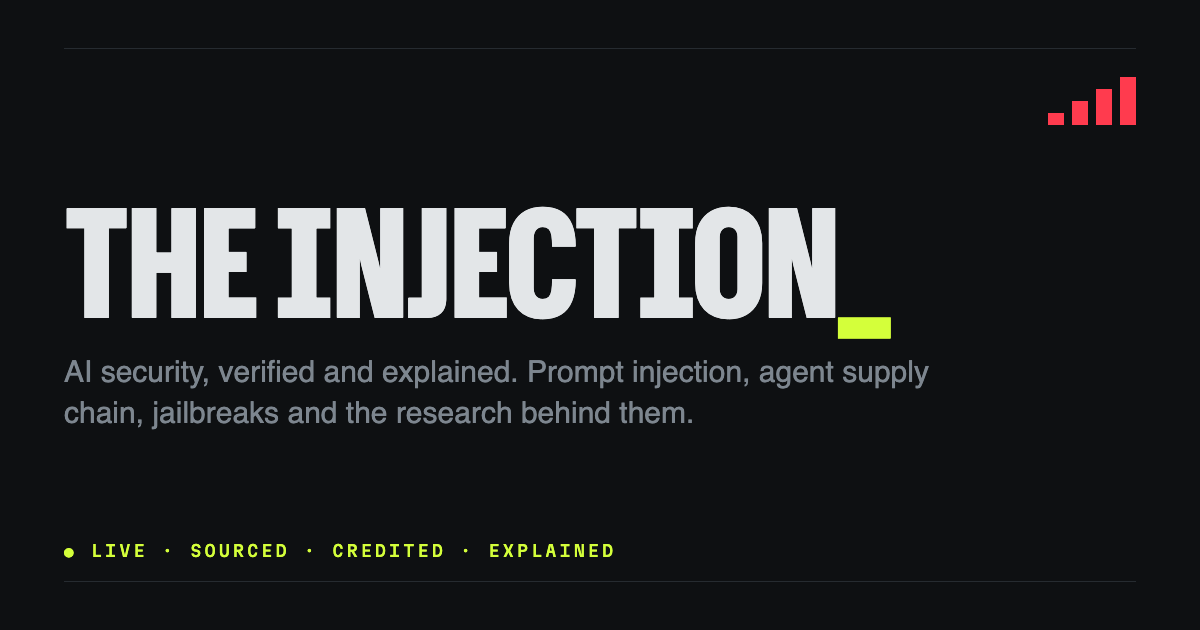
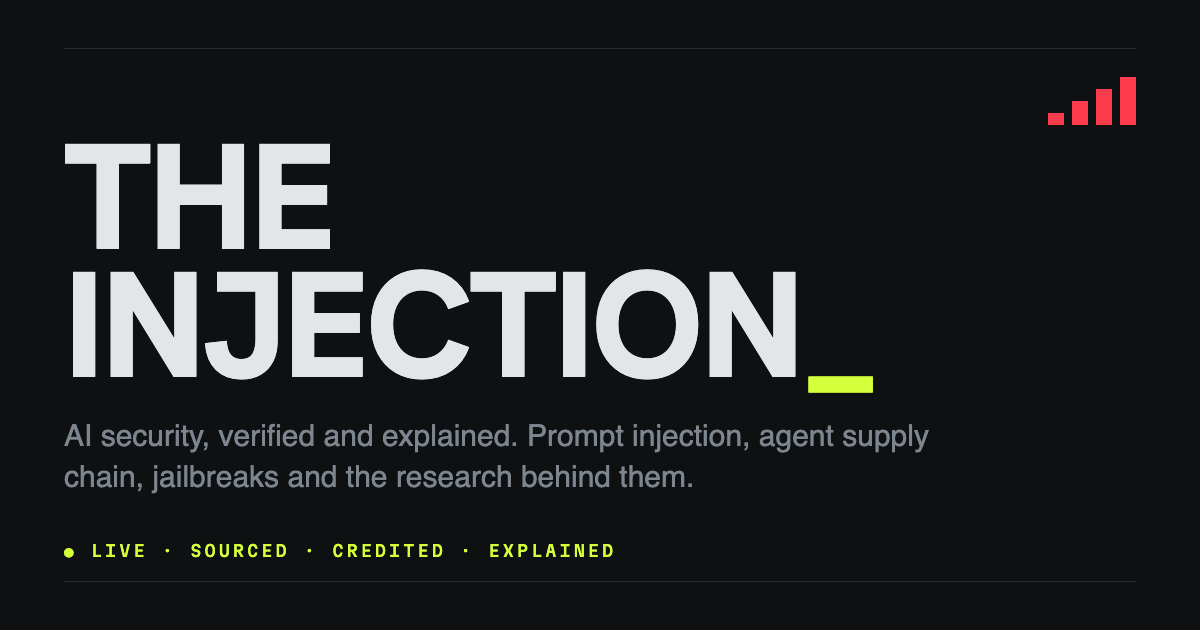
Headlines and body in Hanken Grotesk 600
Replaces Hubot Sans condensed extra-bold, which read as squashed on dark. Headings drop to semibold at normal width with -2% tracking; the wordmark stays heavy. Martian Mono stays for data and labels. Removes the unused font packages from earlier directions; OG image regenerated.

Changed region(s): [[0.0308, 0.2111, 0.7708, 0.7841]]

diff --git a/src/components/FeedExplorer.tsx b/src/components/FeedExplorer.tsx
@@ -51,7 +51,7 @@ function Thumb({ it }: { it: SlimItem }) {
   return (
     <span className="absolute inset-0" style={{ background: art.bg }}>
       <span dangerouslySetInnerHTML={{ __html: art.svg }} />
-      <span className="absolute inset-0 flex items-end p-2 font-heading text-[11px] font-bold leading-[1.05] sm:text-[13px]" style={{ color: art.ink }}>
+      <span className="absolute inset-0 flex items-end p-2 font-heading text-[11px] font-semibold leading-[1.05] sm:text-[13px]" style={{ color: art.ink }}>
         {art.text}
       </span>
     </span>
@@ -167,7 +167,7 @@ export default function FeedExplorer({ items, categories, severities }: Props) {
                     <span className="text-ink/70">{it.org}</span>
                     {it.cve && <span className="hidden sm:inline">{it.cve}</span>}
                   </span>
-                  <span className="mt-1.5 block font-heading text-[17px] font-bold leading-snug text-white [font-stretch:88%] group-hover:underline group-hover:decoration-acid sm:text-[19px]">{it.title}</span>
+                  <span className="mt-1.5 block font-heading text-[17px] font-semibold leading-snug text-white group-hover:underline group-hover:decoration-acid sm:text-[19px]">{it.title}</span>
                   <span className="mt-1 hidden text-[13.5px] leading-relaxed text-muted-foreground sm:line-clamp-1">{it.summary}</span>
                 </span>
                 <time dateTime={it.date} className="hidden self-start pt-0.5 font-mono text-[10.5px] text-muted-foreground sm:block">{it.date}</time>

diff --git a/scripts/og/og.html b/scripts/og/og.html
@@ -1,10 +1,10 @@
 <!doctype html><html><head><meta charset="utf-8"><style>
-@font-face{font-family:HS;font-weight:200 900;font-stretch:75% 125%;src:url(../../node_modules/@fontsource-variable/hubot-sans/files/hubot-sans-latin-wdth-normal.woff2)}
+@font-face{font-family:HS;font-weight:100 900;src:url(../../node_modules/@fontsource-variable/hanken-grotesk/files/hanken-grotesk-latin-wght-normal.woff2)}
 @font-face{font-family:MM;font-weight:100 800;src:url(../../node_modules/@fontsource-variable/martian-mono/files/martian-mono-latin-wdth-normal.woff2)}
 
 html,body{margin:0;width:1200px;height:630px;background:#0E1012;color:#E3E6E8;font-family:HS,Helvetica,sans-serif}
 .wrap{position:absolute;inset:48px 64px;border-top:1px solid #262B30;border-bottom:1px solid #262B30;display:flex;flex-direction:column;justify-content:center}
-h1{font-size:150px;font-weight:800;font-stretch:76%;text-transform:uppercase;margin:0;letter-spacing:-3px;line-height:.85}
+h1{font-size:150px;font-weight:800;text-transform:uppercase;margin:0;letter-spacing:-3px;line-height:.85}
 h1 em{font-style:normal}h1 span{color:#D4FF3A}
 p{font:500 30px/1.35 -apple-system,Helvetica,Arial,sans-serif;margin:28px 0 0;color:#7D868F;max-width:900px}
 .sev{position:absolute;right:0;top:28px;display:flex;gap:8px}.sev i{width:46px;height:12px;border-radius:2px;display:block}

diff --git a/src/styles/global.css b/src/styles/global.css
@@ -1,14 +1,14 @@
 @import "tailwindcss";
 @import "tw-animate-css";
 @import "shadcn/tailwind.css";
-@import "@fontsource-variable/hubot-sans/wdth.css";
+@import "@fontsource-variable/hanken-grotesk";
 @import "@fontsource-variable/martian-mono/wdth.css";
 
 @custom-variant dark (&:is(.dark *));
 
 @theme inline {
-    --font-heading: 'Hubot Sans Variable', ui-sans-serif, system-ui, sans-serif;
-    --font-sans: 'Hubot Sans Variable', ui-sans-serif, system-ui, sans-serif;
+    --font-heading: 'Hanken Grotesk Variable', ui-sans-serif, system-ui, sans-serif;
+    --font-sans: 'Hanken Grotesk Variable', ui-sans-serif, system-ui, sans-serif;
     --font-mono: 'Martian Mono Variable', ui-monospace, monospace;
     --color-sev-critical: var(--sev-critical);
     --color-sev-high: var(--sev-high);
@@ -165,9 +165,8 @@
     }
   /* Bricolage is the display face: heavy, a little condensed, tight. */
   .font-heading {
-    font-weight: 750;
-    font-stretch: 78%;
-    letter-spacing: -0.005em;
+    font-weight: 600;
+    letter-spacing: -0.02em;
     }
   html { color-scheme: dark; }
   ::selection {
